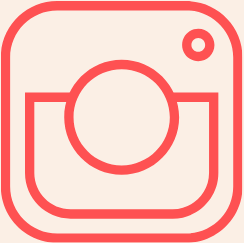
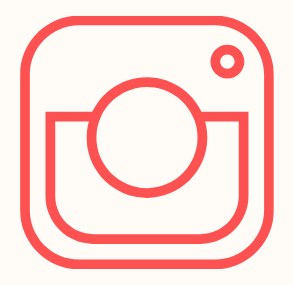
fix: correção de fundo das imagens de rede social

diff --git a/css/layout/contato.css b/css/layout/contato.css
@@ -1,5 +1,5 @@
 .contato {
-    background-color: var(--cor-fundo2);
+    background-color: var(--cor-fundo1);
     padding-top: 50px;
     padding-bottom: 50px;
     width: 100%;
@@ -22,7 +22,7 @@
     }
 
     .container-contato img {
-        width: 100px;
-        height: 100px;
+        width: 80px;
+        height: 80px;
     }
 }
